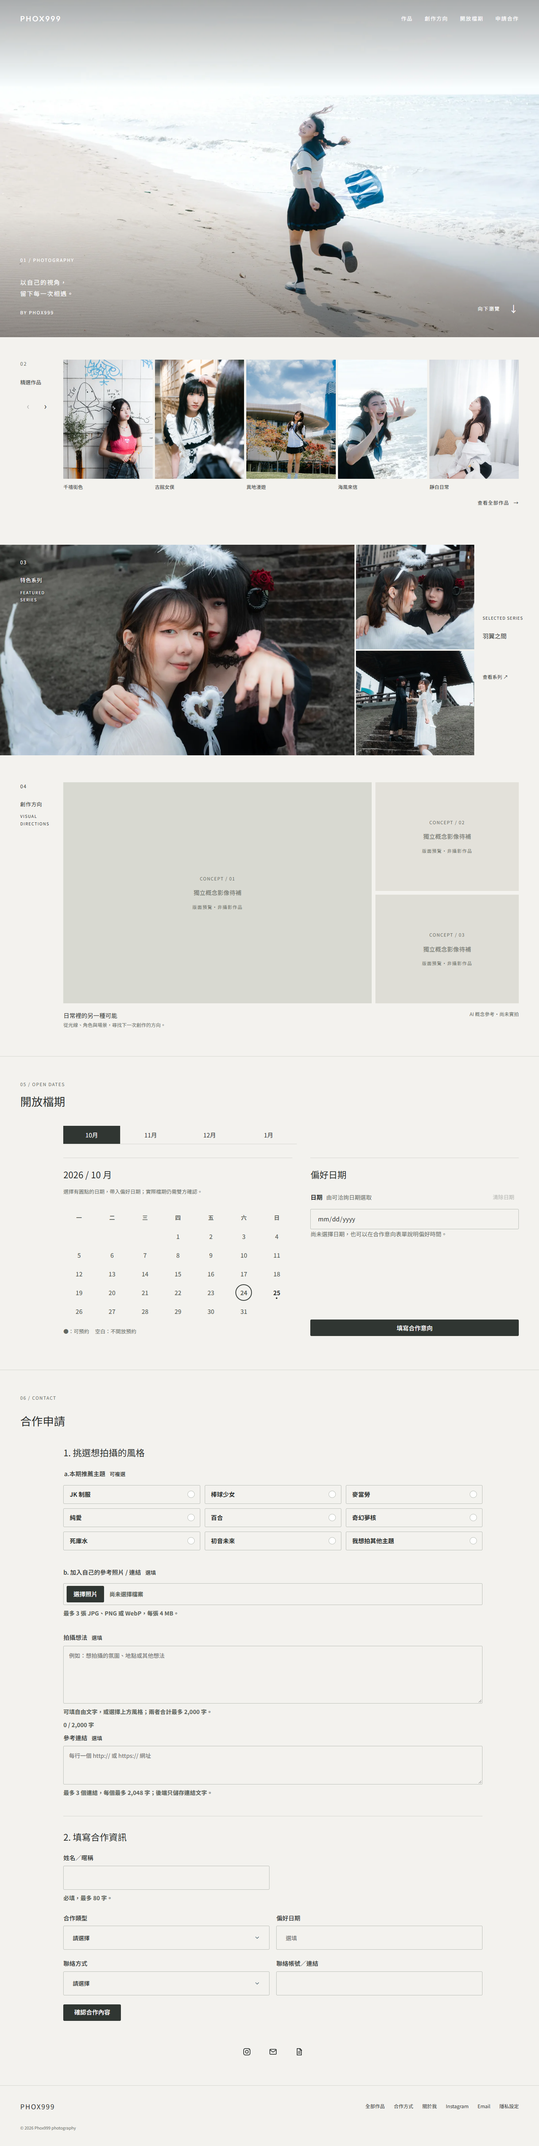
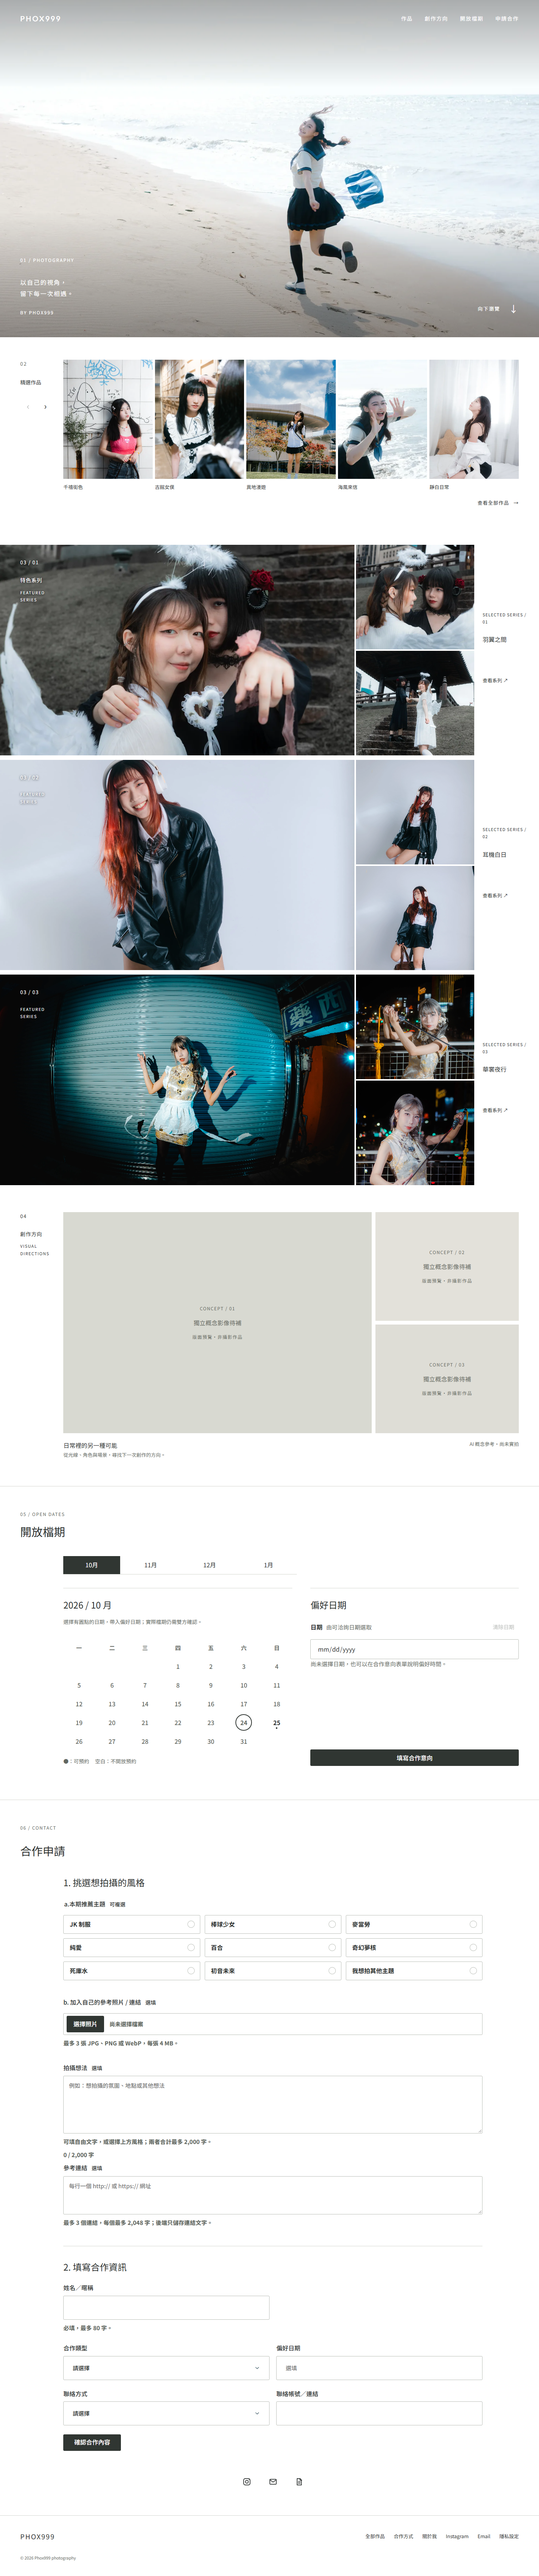
feat(home): use white canvas and three stacked featured collections

diff --git a/src/styles/home-editorial.css b/src/styles/home-editorial.css
@@ -5,8 +5,8 @@
 .editorial-footer button { font: inherit; color: inherit; background: none; border: 0; padding: 0; cursor: pointer; }
 .editorial-footer small { flex-basis: 100%; color: var(--color-muted); }
 .editorial-shell {
-  --color-bg: #f3f2ee;
-  --color-surface: #f3f2ee;
+  --color-bg: #ffffff;
+  --color-surface: #ffffff;
   --color-surface-soft: #e7e6e1;
   --color-text: #252928;
   --color-muted: #626761;
@@ -74,7 +74,9 @@
 .editorial-label > span { display: block; margin-bottom: 24px; font-size: 13px; }
 .editorial-label h2 { font: 400 14px/1.8 var(--font-body); letter-spacing: .05em; }
 .editorial-label p { margin-top: 10px; line-height: 1.8; font-size: 11px; }
-.featured-series { position: relative; display: grid; grid-template-columns: minmax(0, 1fr) 12%; height: clamp(480px, 39vw, 740px); }
+.featured-series { display: grid; gap: 12px; }
+.series-row { position: relative; display: grid; grid-template-columns: minmax(0, 1fr) 12%; height: clamp(480px, 39vw, 740px); }
+.series-row[hidden] { display: none; }
 .series-images { display: grid; grid-template-columns: 3fr 1fr; grid-template-rows: 1fr 1fr; gap: 4px; min-height: 0; }
 .series-images img { width: 100%; height: 100%; min-height: 0; object-fit: cover; object-position: 50% 35%; background: var(--color-surface-soft); }
 .series-images img:first-child { grid-row: 1 / 3; }
@@ -127,7 +129,7 @@
   .editorial-shell { --editorial-gutter: 24px; --editorial-rail: 88px; }
   .editorial-shell .editorial-home .portfolio-card { flex-basis: calc((100% - 12px)/3); }
   .series-info { padding: 16px; }
-  .featured-series { grid-template-columns: 1fr 20%; }
+  .series-row { grid-template-columns: 1fr 20%; }
   .editorial-shell .editorial-home .availability-layout { grid-template-columns: 1fr; }
   .direction-caption { flex-direction: column; gap: 8px; }
 }
@@ -141,7 +143,7 @@
   .editorial-shell .editorial-home .portfolio-section > .section-heading { flex-direction: row; justify-content: space-between; margin-bottom: 20px; }
   .editorial-shell .editorial-home .portfolio-section h2 { margin-top: 0; }
   .editorial-shell .editorial-home .portfolio-card { flex-basis: 68%; }
-  .featured-series { height: 460px; grid-template-columns: 1fr; }
+  .series-row { height: 460px; grid-template-columns: 1fr; }
   .series-images { height: 360px; }
   .series-info { flex-direction: row; align-items: center; gap: 16px; }
   .series-info a { margin-top: 0; }

diff --git a/tests/home-featured-series.test.js b/tests/home-featured-series.test.js
@@ -1,0 +1,17 @@
+import test from 'node:test';
+import assert from 'node:assert/strict';
+import { homepageSeriesSlugs, selectHomepageSeries } from '../src/lib/home-featured-series.js';
+const item = slug => ({ slug, title: slug, images: [`/${slug}.webp`] });
+test('Homepage displays three distinct preferred series without changing source order', () => {
+  const collections = ['other', ...homepageSeriesSlugs].map(item);
+  assert.deepEqual(selectHomepageSeries(collections).map(row => row.slug), homepageSeriesSlugs);
+  assert.equal(collections[0].slug, 'other');
+});
+test('Unpublished series are replaced by distinct published records', () => {
+  const collections = [item('new-a'), item(homepageSeriesSlugs[1]), item('new-b')];
+  assert.deepEqual(selectHomepageSeries(collections).map(row => row.slug), [homepageSeriesSlugs[1], 'new-a', 'new-b']);
+});
+test('Insufficient data never repeats a series or invents an image', () => {
+  assert.equal(selectHomepageSeries([item('one'), item('one'), {slug:'empty',images:[]}]).length, 1);
+  assert.deepEqual(selectHomepageSeries([]), []);
+});

diff --git a/src/lib/home-featured-series.js b/src/lib/home-featured-series.js
@@ -1,0 +1,15 @@
+// Presentation selection only; published records remain the source of images and links.
+export const homepageSeriesSlugs = ['260614_天使與惡魔 RE', '260201_棚拍 RE', '中華娘'];
+
+export function selectHomepageSeries(collections) {
+  const unique = new Map(collections.filter(item => item.images?.length).map(item => [item.slug, item]));
+  const selected = [];
+  for (const slug of [...homepageSeriesSlugs, ...unique.keys()]) {
+    const item = unique.get(slug);
+    if (!item) continue;
+    selected.push(item);
+    unique.delete(slug);
+    if (selected.length === 3) break;
+  }
+  return selected;
+}

diff --git a/docs/homepage-acceptance/README.md b/docs/homepage-acceptance/README.md
@@ -5,9 +5,9 @@ Base: existing `dev`, `4ba8f150b2b725ba3ce473c4065995090c63fe45`. Work was isola
 ## Implementation
 
 - `src/pages/index.astro`: exactly Hero, selected works, featured series, visual directions, dates and application, followed by a compact footer.
-- `src/styles/home-editorial.css`: homepage-only warm neutral palette, full viewport Hero, five portrait covers, image-led series layout, functional calendar and application styling. No new package.
+- `src/styles/home-editorial.css`: homepage-only pure white (#FFFFFF) palette, full viewport Hero, five portrait covers, image-led series layout, functional calendar and application styling. No new package.
 - `Hero.astro`, `Header.astro`, `Portfolio.astro`, `Dates.astro`, `Contact.astro`, `BaseLayout.astro`: opt-in presentation variants. Published Hero photos still load; backend headline text cannot restore the old large homepage heading. Focus entrance is progressive enhancement; no added carousel timer.
-- `FeaturedSeries.astro`: three distinct photographs from one real series, using existing catalogue/routes/image helpers, with published-data refresh and smaller layouts when images are insufficient. One series has no fake arrows.
+- `FeaturedSeries.astro`: three stacked, distinct real series, each with a large photograph and two detail photographs, using existing catalogue/routes/image helpers, with published-data refresh and smaller layouts when images are insufficient. The three rows are 羽翼之間, 耳機白日 and 華裳夜行 when published; unpublished selections fall back to distinct published records, with no fake arrows.
 - `VisualDirections.astro`, `visualDirections.ts`: typed, explicitly labelled concept slots. **Three independent concept images are still needed.** No reference-board crops or invented photography were added. Supply source, alt, dimensions and focal point in this file. Current placeholders say “獨立概念影像待補 / 版面預覽・非攝影作品”.
 - `homePhotoPresentation.ts`: source-specific Hero crop settings, separated from portfolio records.
 - Reference images in baseline dev were preview-only. Contact now retains accepted `File` objects, allows individual removal and sends the existing `reference_images` multipart contract. Content hashes participate only in the client idempotency identity; the server payload schema is unchanged. Same data/photos reuse identity on uncertain retries.
@@ -21,8 +21,8 @@ Base: existing `dev`, `4ba8f150b2b725ba3ce473c4065995090c63fe45`. Work was isola
 | `npm run build` / `npm run build:worker` | Pass, 59 pages and Worker asset preparation. |
 | `npm run verify:seo` / `npm run verify:worker` | Pass, no failures, 41 structured-data checks. |
 | `npm run verify:routes` | Pass, 29 generated portfolio routes and route maps. |
-| Targeted existing tests | 30/30 pass: calendar range, featured ordering, inquiry form/workflow/references, published portfolio and Hero image fallback. |
-| Full `node --test` | 131/132 pass. Existing `site-analytics-client.test.js` fails at `resolveTabId` because its mocked window lacks an event target. Reproduced with the unchanged test and module extracted from origin/dev. Not modified in this task. An initial analytics signature test also failed once, then passed in isolation and later full runs. |
+| Targeted existing tests | 33/33 pass: calendar range, featured ordering, inquiry form/workflow/references, published portfolio and Hero image fallback. |
+| Full `node --test` | 134/135 pass. Existing `site-analytics-client.test.js` fails at `resolveTabId` because its mocked window lacks an event target. Reproduced with the unchanged test and module extracted from origin/dev. Not modified in this task. An initial analytics signature test also failed once, then passed in isolation and later full runs. |
 | Desktop Edge | 1440×900, 1920×1080, 1280×800: exact six-section order, viewport-height Hero, no page overflow. |
 | Small-screen smoke | 390×844: no page overflow. A designed mobile/tablet refresh remains the next phase. |
 | Calendar | Month switch, selection, clearing, date transfer, error/retry and empty state pass. Uses test fixtures, not a production availability claim. |
